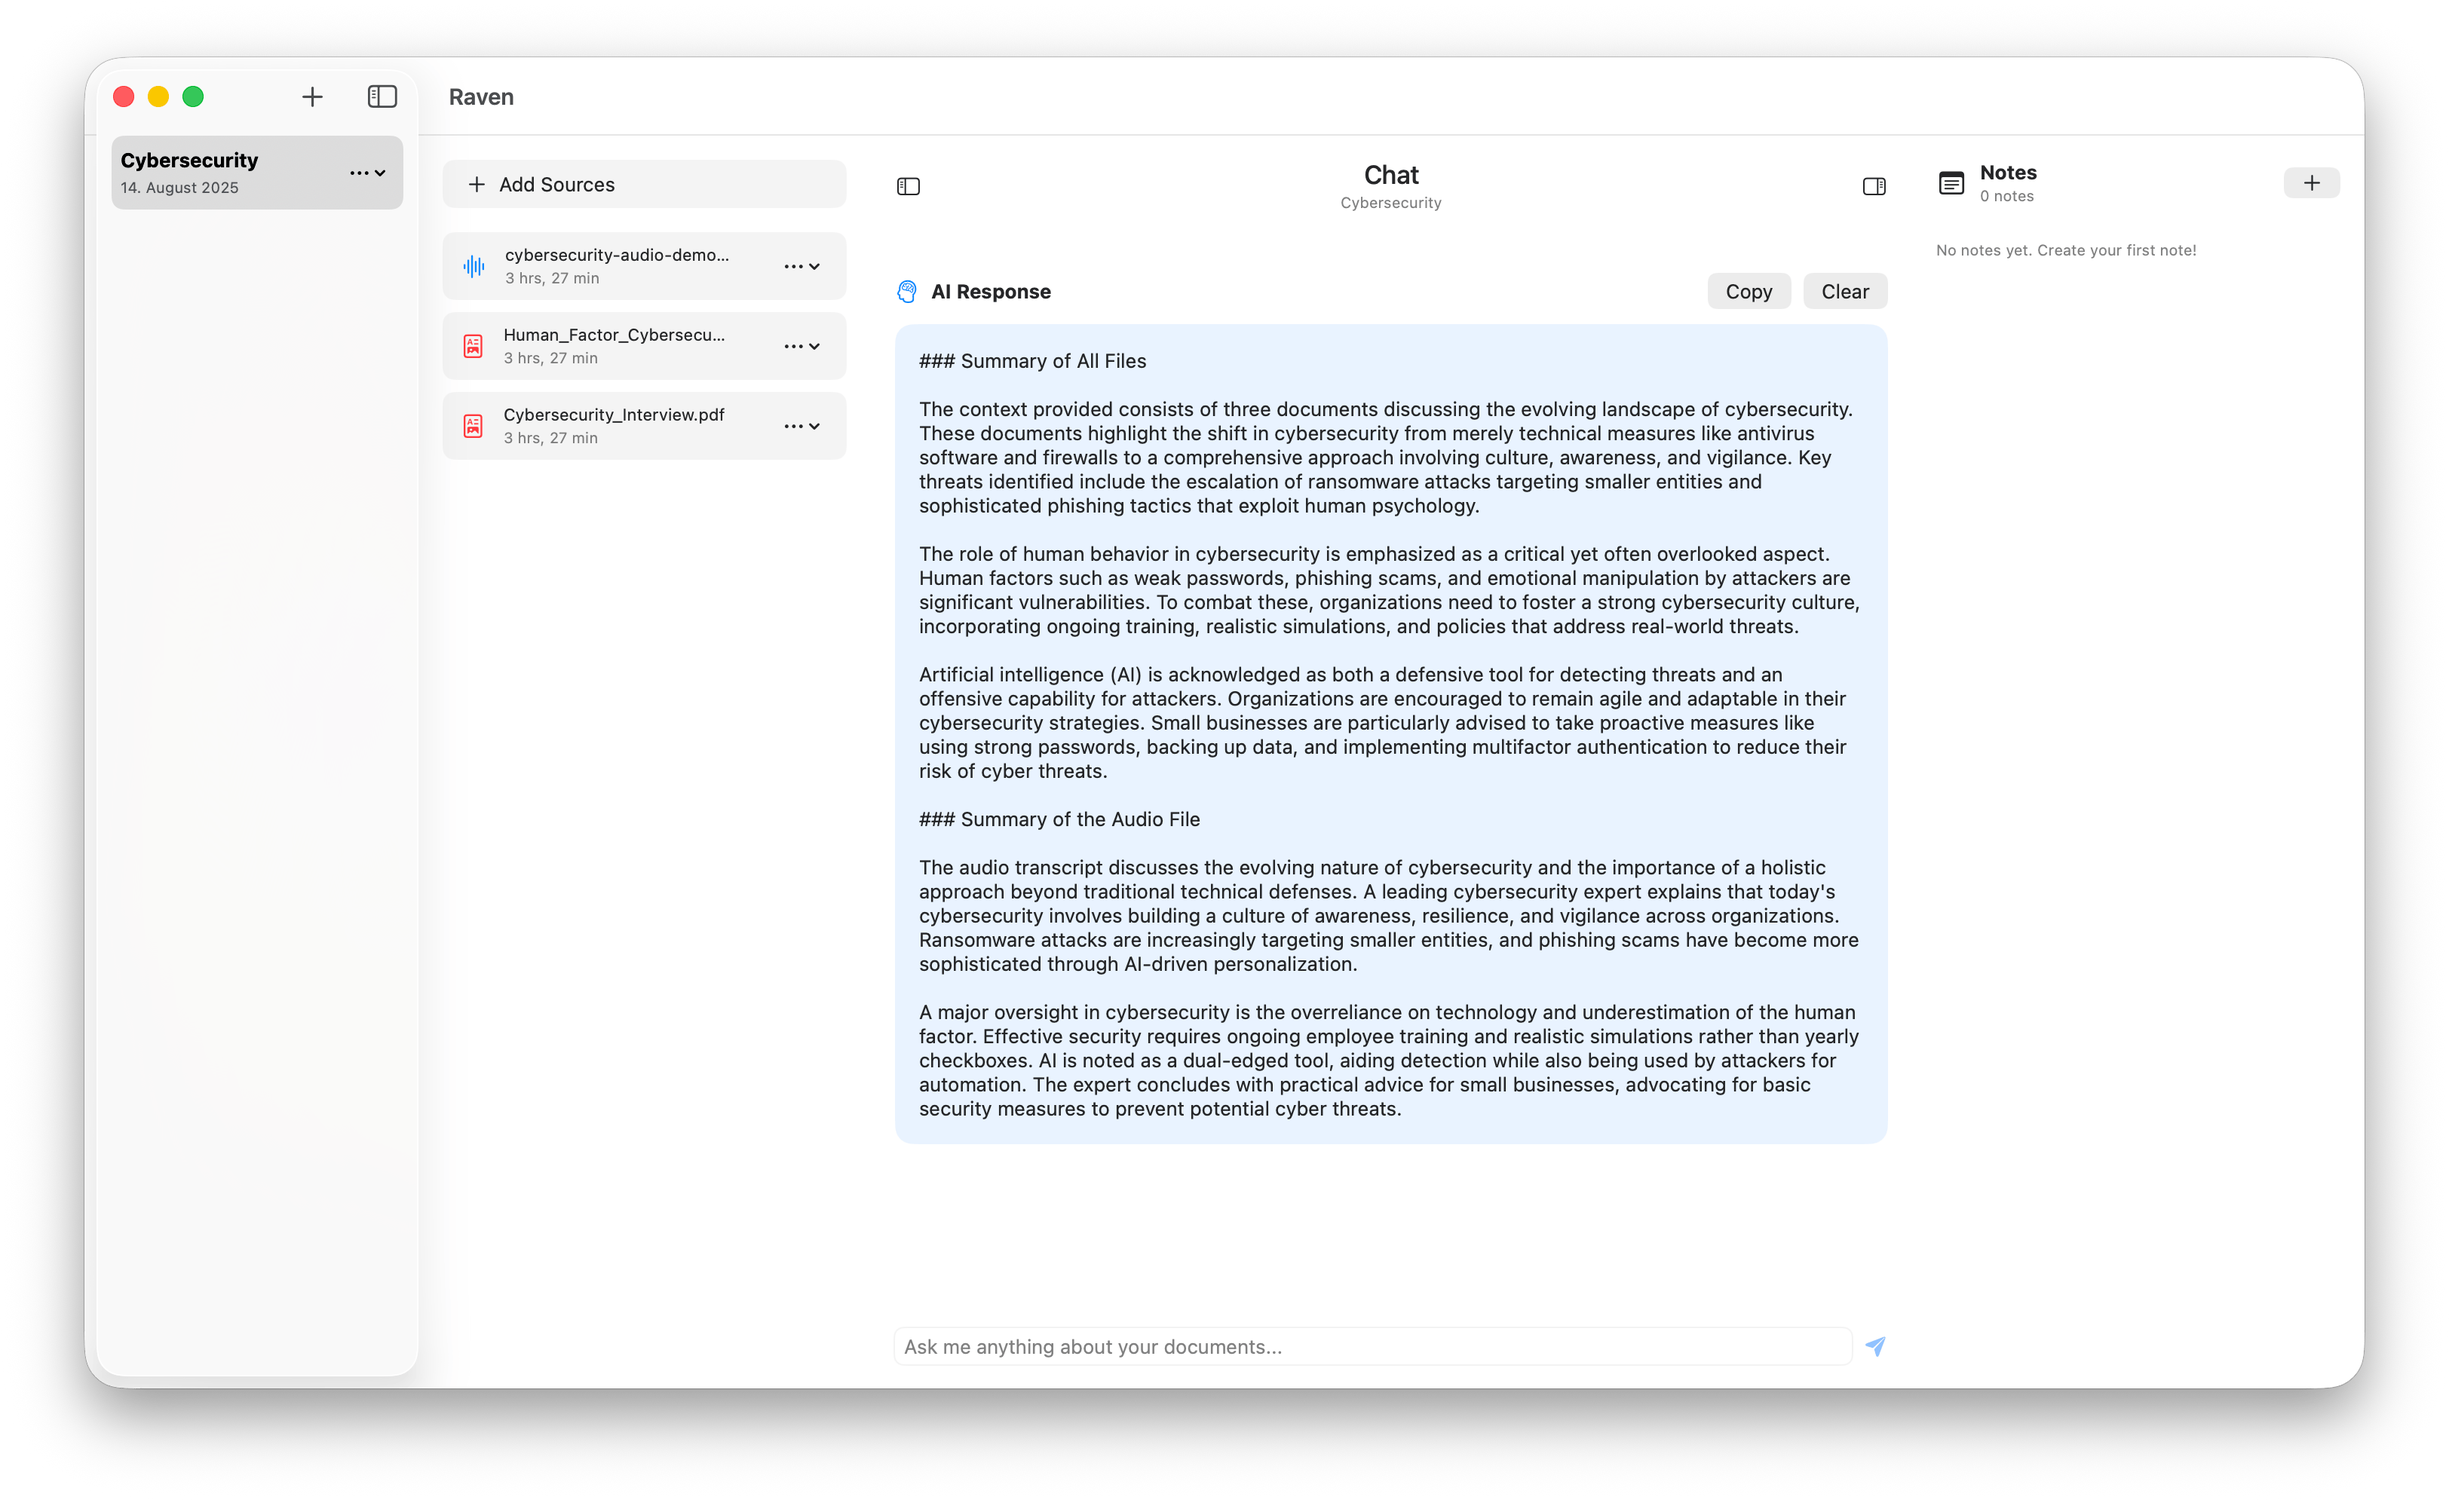
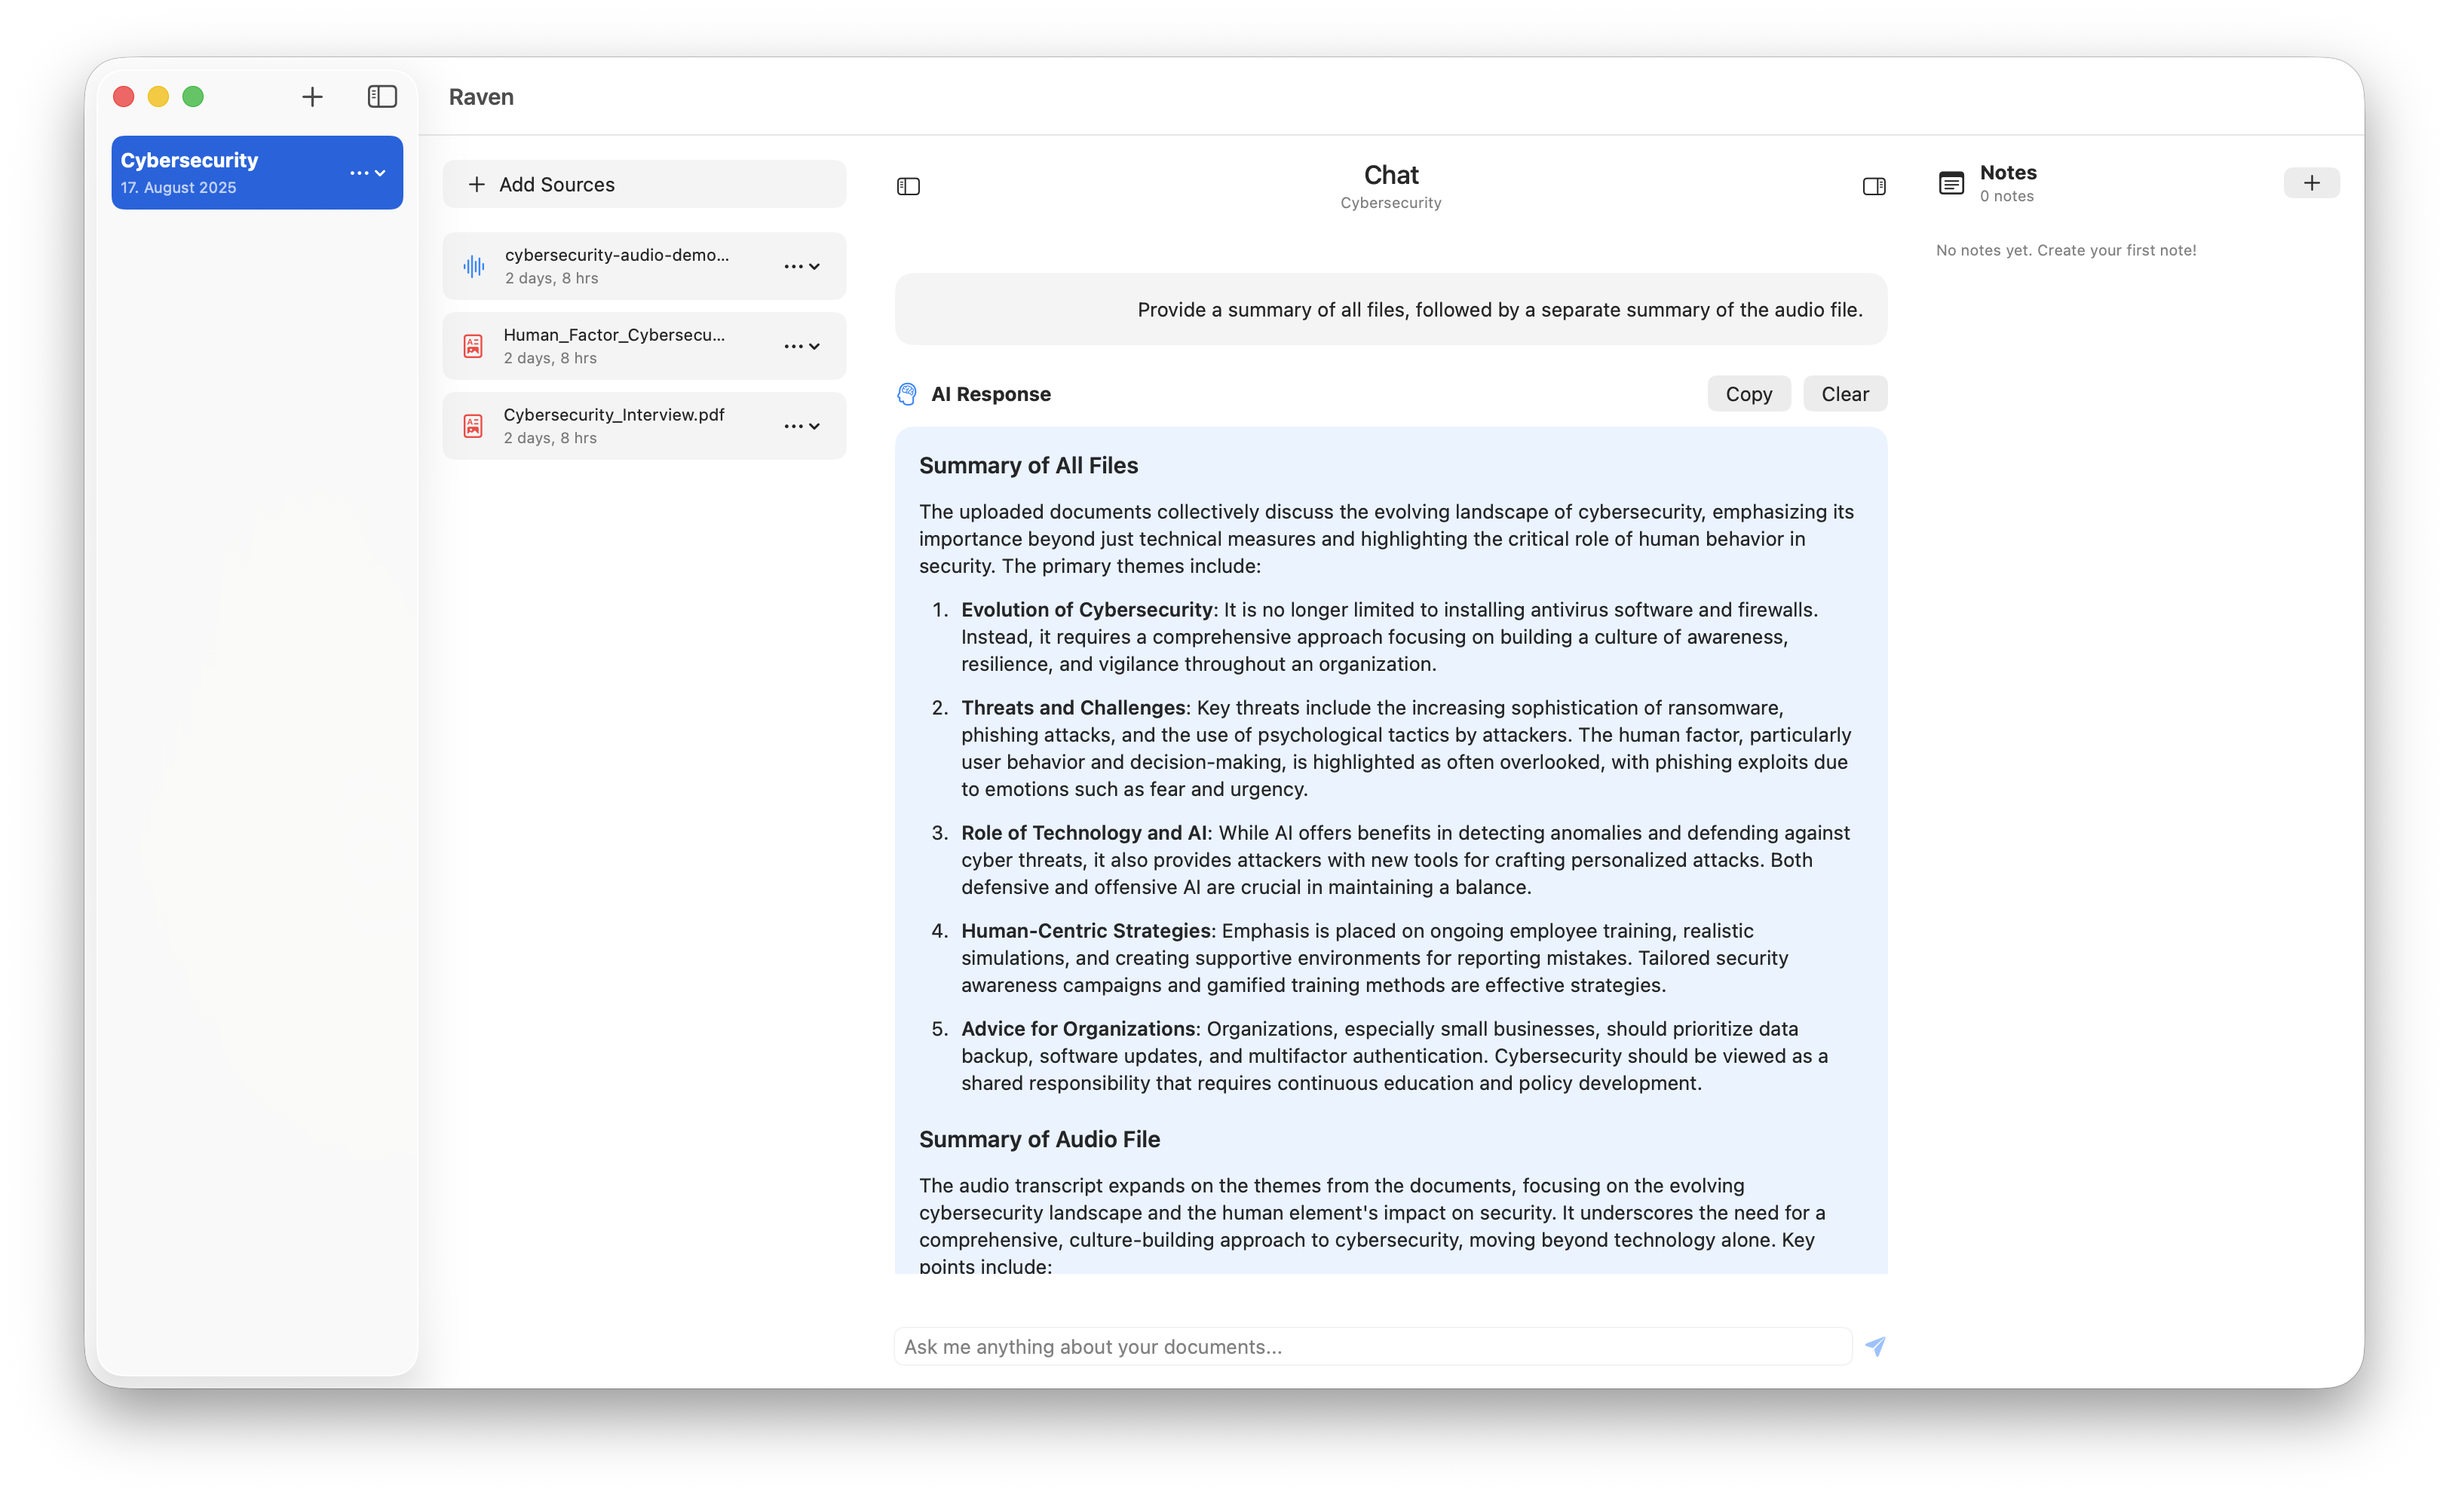
Add MarkdownUI library to display prettier response

Changed region(s): [[0.3732, 0.1869, 0.7774, 0.8724], [0.0311, 0.0623, 0.1866, 0.1558], [0.4664, 0.1869, 0.7774, 0.2181]]

diff --git a/Raven/Features/Main/MainContentView.swift b/Raven/Features/Main/MainContentView.swift
@@ -5,6 +5,7 @@
 //  Created by Eldar Tutnjic on 24.07.25.
 //
 
+import MarkdownUI
 import SwiftUI
 
 struct MainContentView: View {
@@ -193,7 +194,7 @@ struct MainContentView: View {
             }
             
             ScrollView {
-                Text(feature.value(\.responseText))
+                Markdown(feature.value(\.responseText))
                     .textSelection(.enabled)
                     .padding()
                     .frame(

diff --git a/README.md b/README.md
@@ -1,6 +1,6 @@
 # Raven
 
-![Raven](Screenshots/Raven.png)
+![Raven](Images/Raven.png)
 
 ## Overview
 
